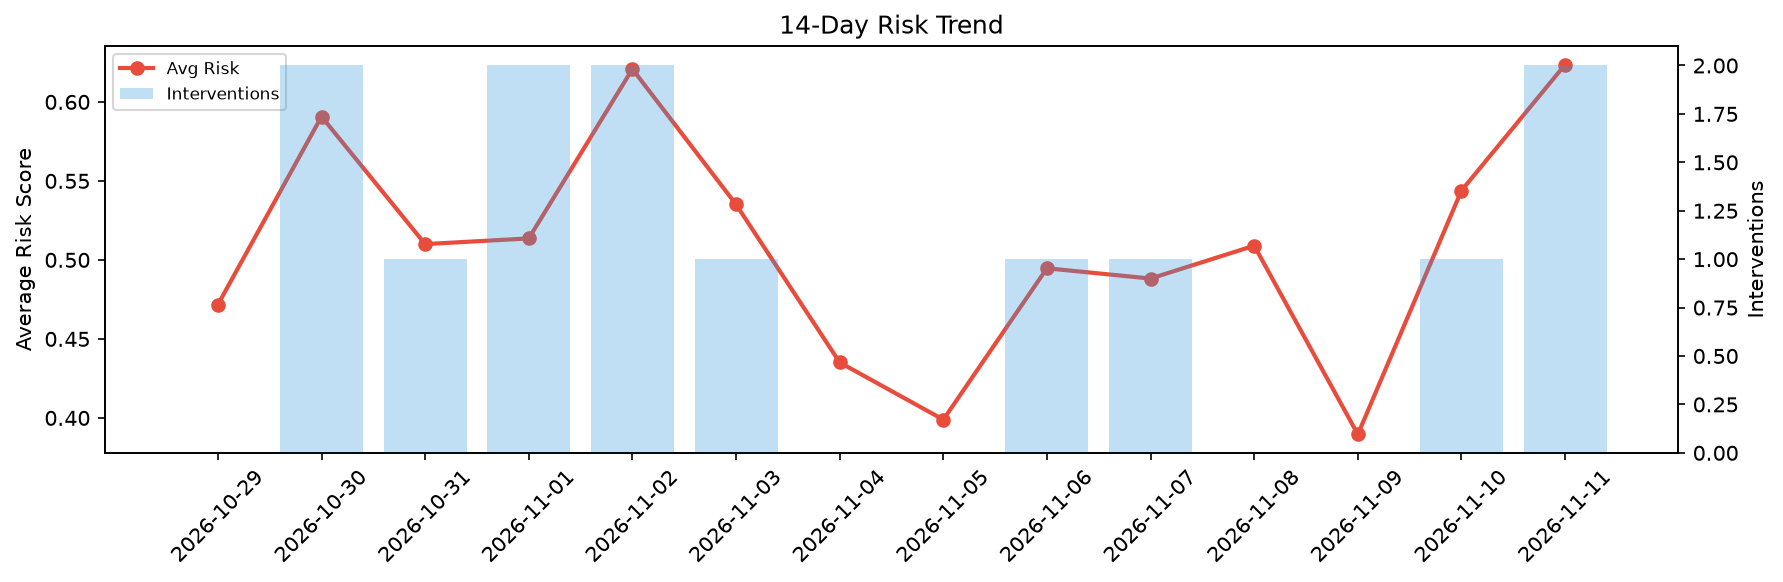
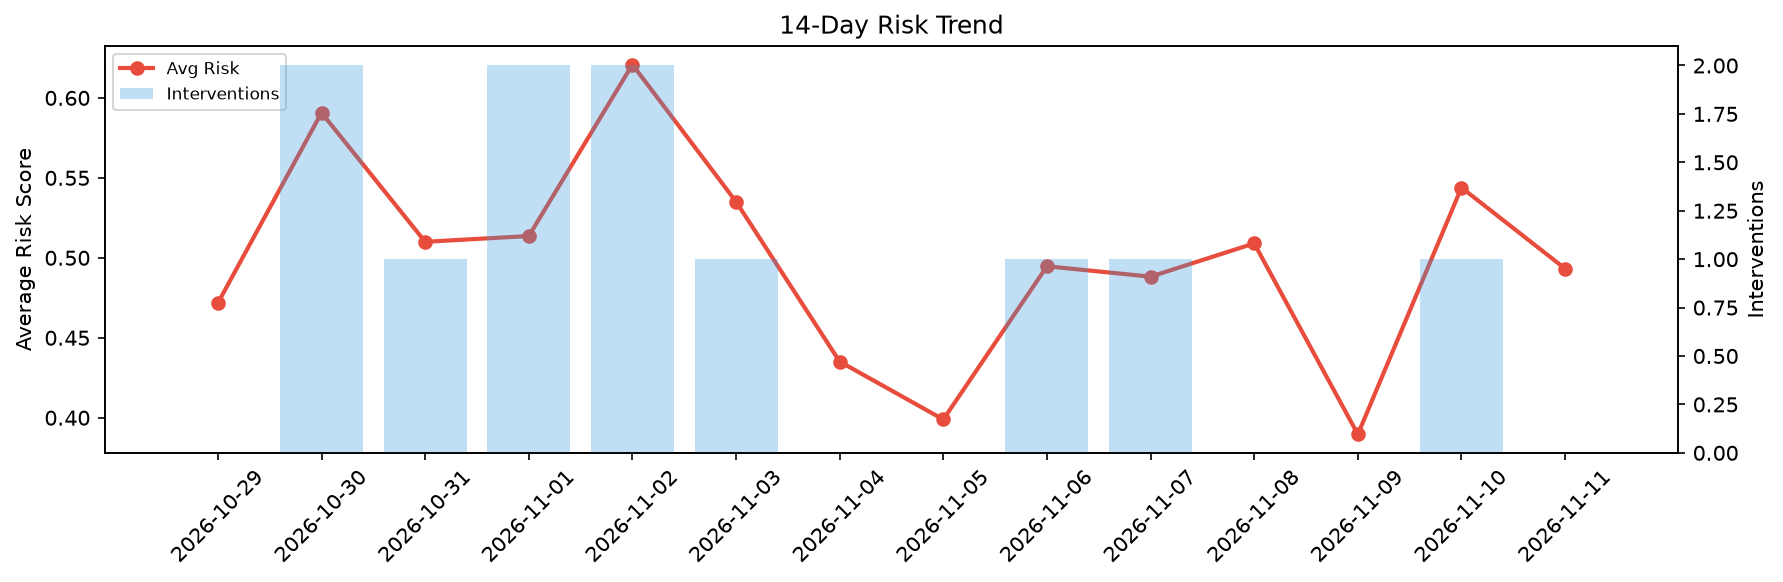
agent-improvement: daily cycle 2026-11-11T16:09

diff --git a/logs/2026-11-11.md b/logs/2026-11-11.md
@@ -1,6 +1,6 @@
 # Agent Improvement Report — 2026-11-11
 
-**Cycle ID:** `9afcd098` | **Avg Risk:** 0.6236 | **Interventions:** 2/4
+**Cycle ID:** `353de178` | **Avg Risk:** 0.4932 | **Interventions:** 0/4
 
 ![Dashboard](2026-11-11_dashboard.png)
 
@@ -10,18 +10,18 @@
 
 | Domain | Risk Score | Decision | Alerts |
 |--------|-----------|----------|--------|
-| code_review | 0.7228 | intervene | complexity, duplication |
-| incident_response | 0.5745 | monitor | none |
-| data_pipeline | 0.3525 | monitor | volume_anomaly |
-| deployment | 0.8445 | intervene | rollback_rate, canary_error |
+| code_review | 0.4132 | monitor | none |
+| incident_response | 0.5547 | monitor | none |
+| data_pipeline | 0.5322 | monitor | freshness |
+| deployment | 0.4729 | monitor | canary_error |
 
 ## Delta vs Yesterday
 
 | Domain | Today | Yesterday | Change |
 |--------|-------|-----------|--------|
-| code_review | 0.7228 | 0.522 | 📈 38.5% |
-| incident_response | 0.5745 | 0.5341 | 📈 7.6% |
-| data_pipeline | 0.3525 | 0.6035 | 📉 -41.6% |
-| deployment | 0.8445 | 0.516 | 📈 63.7% |
+| code_review | 0.4132 | 0.522 | 📉 -20.8% |
+| incident_response | 0.5547 | 0.5341 | 📈 3.9% |
+| data_pipeline | 0.5322 | 0.6035 | 📉 -11.8% |
+| deployment | 0.4729 | 0.516 | 📉 -8.4% |
 
 **Refinement:** `{'adjustment': 'tighten_thresholds', 'trend': 'degrading', 'window': 4}`
